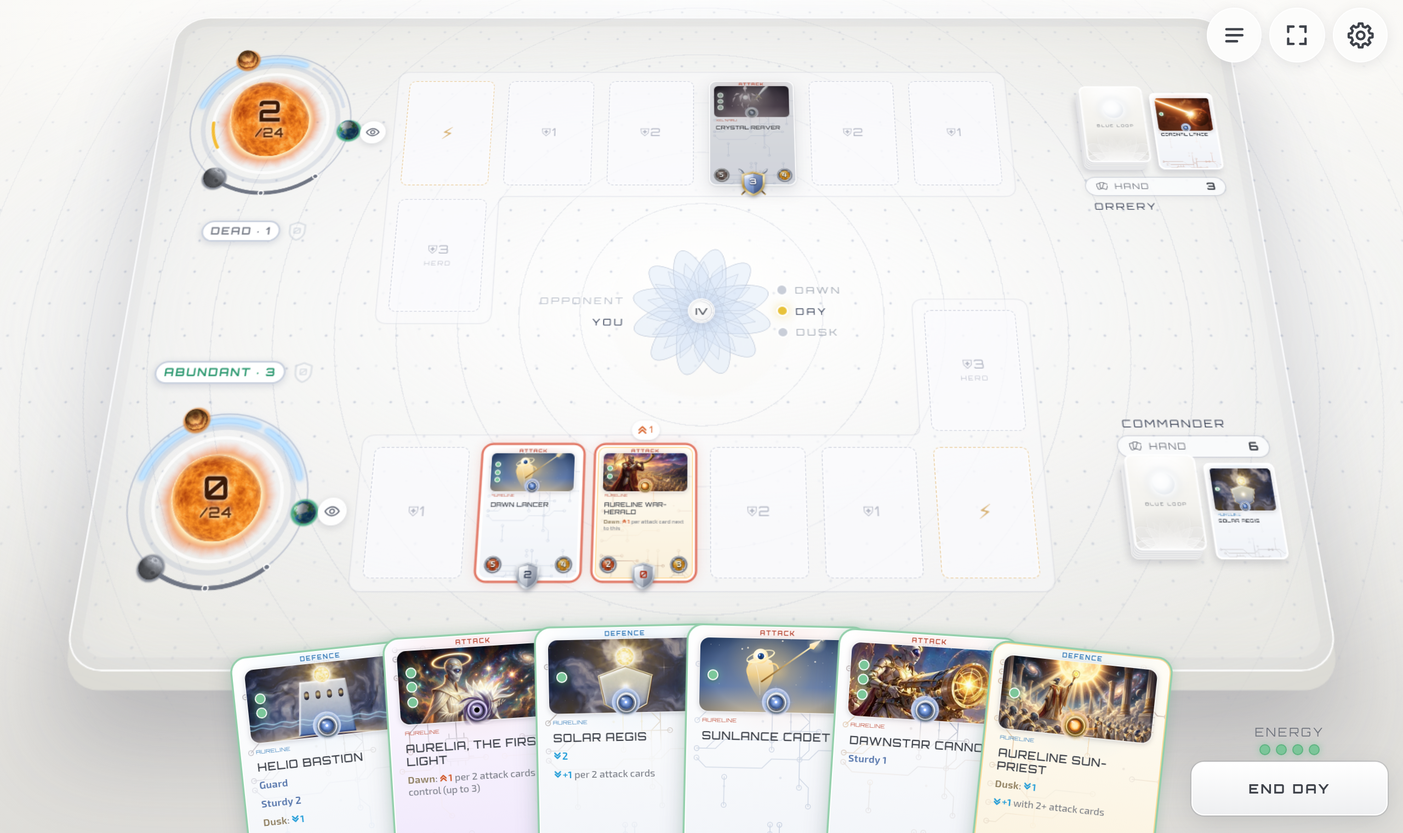
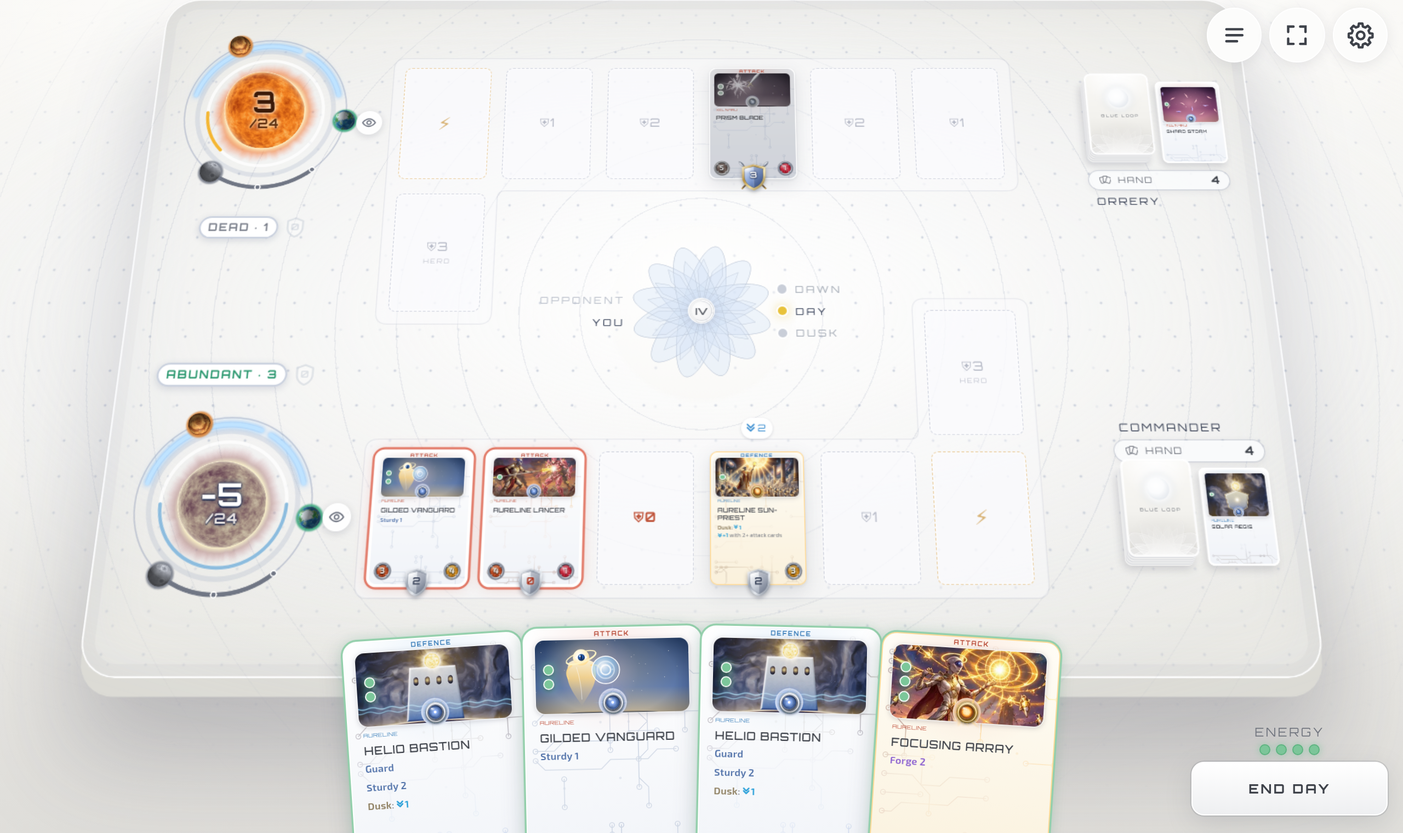
Board tilt down to 22deg; effect chips evenly spaced from cards on both sides
Claude-Session: https://claude.ai/code/session_01PBSGSnCP4crXPaN2fSSd8D

diff --git a/src/styles.css b/src/styles.css
@@ -1573,7 +1573,7 @@ body.screen-campaign .backdrop { display: none; }
   --gw: calc(min(calc(100 * var(--vw)), calc(var(--app-h, calc(100 * var(--vh))) * 2.2)) * var(--bz, 1));
   --gh: calc(min(calc(112 * var(--vh)), calc(var(--gw) / var(--bz, 1) * 0.64)) * var(--bz, 1));
   /* How far the board tips away from the viewer. */
-  --board-tilt: 28deg;
+  --board-tilt: 22deg;
   position: fixed; inset: 0;
   perspective: calc(200 * var(--vh));
   perspective-origin: 50% 24%;
@@ -6027,8 +6027,8 @@ body:has(.game-result) .dock { visibility: hidden; }
 
 /* Over each of your cards in play (under each of your rival's): what it gives each day as things stand. */
 .card-yield { position: absolute; left: 50%; transform: translateX(-50%); display: flex; gap: calc(var(--tcw, 80px) * 0.035); z-index: 3; pointer-events: auto; white-space: nowrap; }
-.card-yield-mine { bottom: calc(100% + var(--tcw, 80px) * 0.09); }
-.card-yield-rival { top: calc(100% + var(--tcw, 80px) * 0.4); }
+.card-yield-mine { bottom: calc(100% + var(--tcw, 80px) * 0.15); transform-origin: 50% 100%; }
+.card-yield-rival { top: calc(100% + var(--tcw, 80px) * 0.24); transform-origin: 50% 0; }
 .yield { display: inline-flex; align-items: center; gap: 1px; gap: calc(var(--tcw, 80px) * 0.02); padding: 0 calc(var(--tcw, 80px) * 0.07) 0 calc(var(--tcw, 80px) * 0.055); height: calc(var(--tcw, 80px) * 0.22); border-radius: 999px; background: rgba(255, 255, 255, 0.94); box-shadow: 0 1px 3px rgba(60, 70, 100, 0.18); font-family: var(--display); font-style: normal; font-size: calc(var(--tcw, 80px) * 0.105); line-height: 1; color: var(--ink); }
 .yield .kw-ico { width: calc(var(--tcw, 80px) * 0.105); height: calc(var(--tcw, 80px) * 0.105); margin: 0; stroke-width: 1.8; }
 .yield .kw-ico .kw-ico-fill { fill: currentColor; fill-opacity: 1; stroke: none; }
